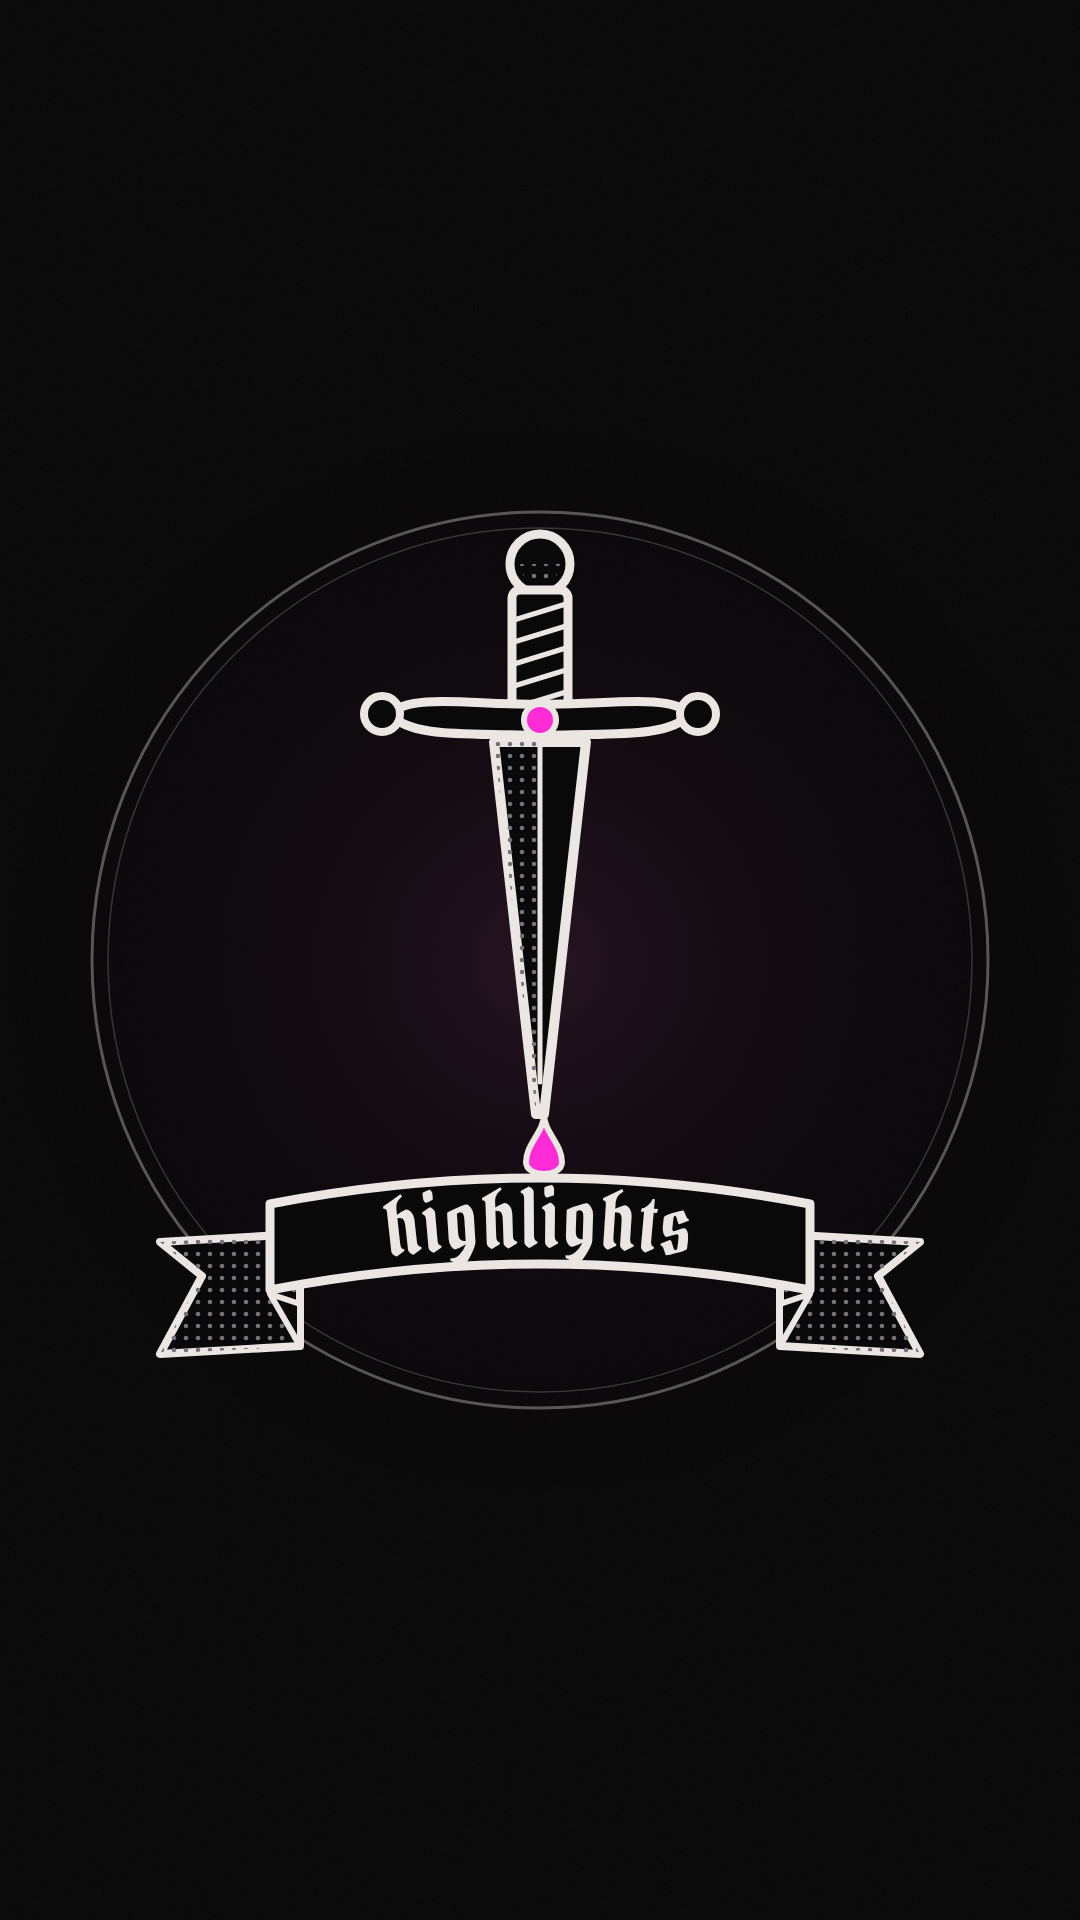
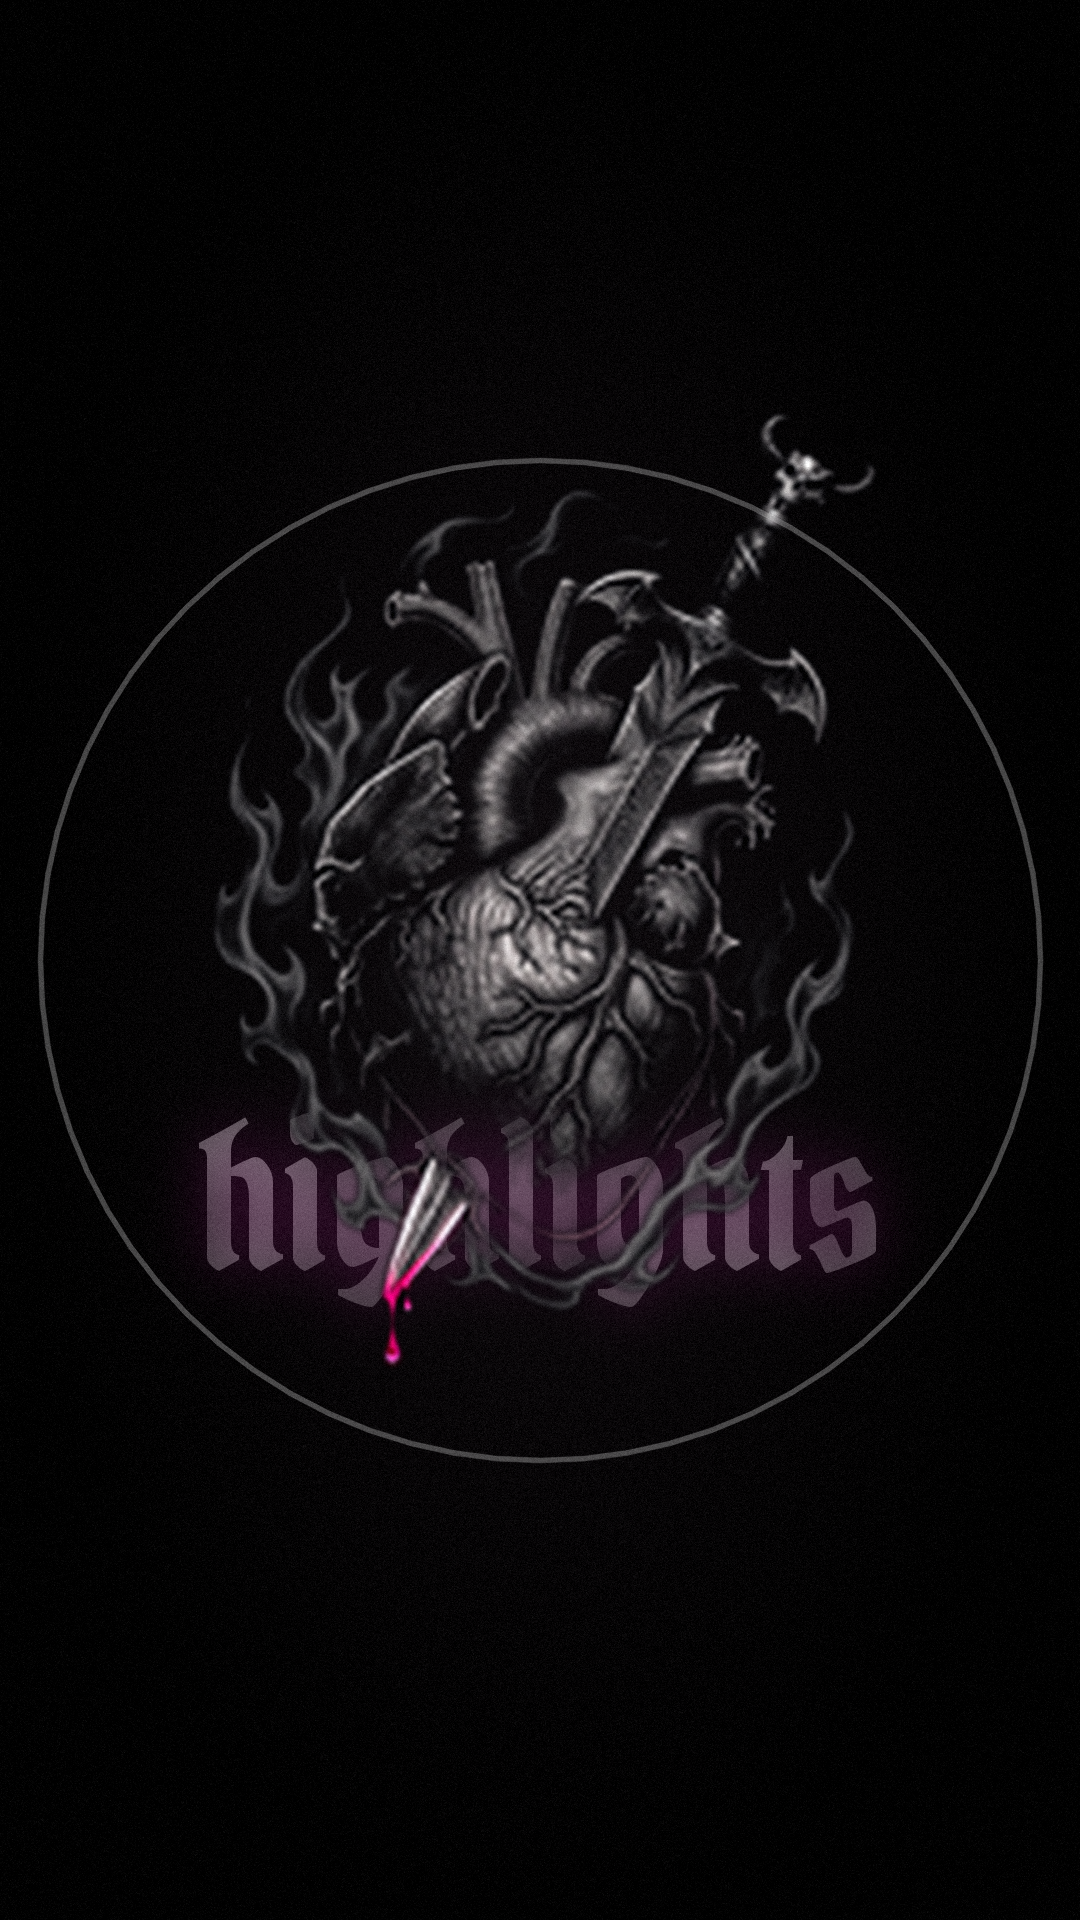
Highlight covers: realistic dark artwork with the name set behind the subject
Claude-Session: https://claude.ai/code/session_01UxfUGVuyJAH9CatYfRoXCg

diff --git a/brand/highlight-covers/compose.py b/brand/highlight-covers/compose.py
@@ -1,0 +1,122 @@
+#!/usr/bin/env python3
+"""
+Realistic highlight covers: AI artwork (black background) + the highlight's name in huge smoky
+blackletter BEHIND the subject, so the art overlaps the word.
+
+    reels/.venv/bin/python brand/highlight-covers/compose.py art/reviews.png reviews ...
+Each pair: <art image> <word>. Writes <n>-<word>.png (1080x1920) next to this file.
+"""
+
+import sys
+from pathlib import Path
+
+import cv2
+import numpy as np
+from PIL import Image, ImageDraw, ImageFilter, ImageFont
+
+HERE = Path(__file__).resolve().parent
+FONT = HERE.parents[1] / "reels" / "fonts" / "PirataOne-Regular.woff2"
+W, H = 1080, 1920
+PINK = (255, 43, 214)
+
+
+def font(size):
+    try:
+        return ImageFont.truetype(str(FONT), size)
+    except OSError:  # Pillow without woff2 support: convert once with fontTools
+        from fontTools.ttLib import TTFont
+        ttf = FONT.with_suffix(".ttf")
+        if not ttf.exists():
+            f = TTFont(str(FONT))
+            f.flavor = None
+            f.save(str(ttf))
+        return ImageFont.truetype(str(ttf), size)
+
+
+def grade(art):
+    """Slight alteration: deeper blacks, crisper mid-tones, cooler greys, pink kept."""
+    a = art.astype(np.float32) / 255
+    lum = a.mean(2, keepdims=True)
+    pinkish = np.clip((a[..., 0:1] - a[..., 1:2]) * 3, 0, 1)  # keep pink areas saturated
+    grey = lum + (a - lum) * (0.55 + 0.45 * pinkish)
+    grey = np.clip((grey - 0.04) / 0.94, 0, 1) ** 1.12  # crush blacks, gentle contrast
+    grey[..., 2:3] += 0.015 * (1 - pinkish)  # faint cool cast
+    return np.clip(grey * 255, 0, 255).astype(np.uint8)
+
+
+def subject_mask(art):
+    """Background is near-black: the subject is anything brighter, feathered."""
+    g = cv2.cvtColor(art, cv2.COLOR_RGB2GRAY).astype(np.float32)
+    m = np.clip((g - 14) / 40, 0, 1)
+    m = cv2.morphologyEx(m, cv2.MORPH_CLOSE, np.ones((9, 9), np.uint8))
+    return cv2.GaussianBlur(m, (0, 0), 3)
+
+
+def word_layer(word, cy):
+    """Huge blackletter word in smoky grey with a pink inner glow, as background texture."""
+    size = 300
+    f = font(size)
+    while f.getlength(word) > 700 and size > 120:  # stay inside the profile circle
+        size -= 10
+        f = font(size)
+    img = Image.new("L", (W, H), 0)
+    d = ImageDraw.Draw(img)
+    bx = d.textbbox((0, 0), word, font=f)
+    x = (W - (bx[2] - bx[0])) / 2 - bx[0]
+    y = cy - (bx[1] + bx[3]) / 2
+    d.text((x, y), word, font=f, fill=255)
+    m = np.asarray(img).astype(np.float32) / 255
+    # smoke texture inside the letters
+    rng = np.random.default_rng(len(word))
+    n = cv2.resize(rng.random((48, 27)).astype(np.float32), (W, H), interpolation=cv2.INTER_CUBIC)
+    n = cv2.GaussianBlur(n, (0, 0), 25)
+    n = (n - n.min()) / (n.max() - n.min() + 1e-9)
+    tone = 0.18 + 0.22 * n  # dim, uneven grey
+    rgb = np.dstack([tone * 235, tone * 228, tone * 232]) * m[..., None]
+    glow = cv2.GaussianBlur(m, (0, 0), 30)[..., None] * np.array(PINK, np.float32)[None, None] * 0.22
+    edge = cv2.GaussianBlur(m, (0, 0), 1.2)
+    return rgb + glow, m, edge
+
+
+def compose(art_path, word, out):
+    art = np.asarray(Image.open(art_path).convert("RGB")).copy()
+    # some previews come as a disc on white: black out anything bright touching the corners
+    h, w = art.shape[:2]
+    if art[:4, :4].mean() > 200 or art[-4:, -4:].mean() > 200:
+        yy, xx = np.mgrid[0:h, 0:w]
+        outside = np.hypot(xx - w / 2, yy - h / 2) > min(h, w) / 2 - 2
+        art[outside] = 0
+    art = grade(art)
+    side = 1000
+    art = cv2.resize(art, (side, side), interpolation=cv2.INTER_LANCZOS4 if art.shape[0] < side else cv2.INTER_AREA)
+    mask = subject_mask(art)
+
+    canvas = np.zeros((H, W, 3), np.float32)
+    # dark backdrop: soft vignette + faint grain
+    yy, xx = np.mgrid[0:H, 0:W]
+    r = np.hypot((xx - W / 2) / W, (yy - H / 2) / H)
+    canvas += (np.clip(0.5 - r, 0, 1) * 34)[..., None] * np.array([1.0, 0.75, 0.95])
+    word_rgb, wm, _ = word_layer(word, H / 2 + 250)
+    canvas = canvas * (1 - wm[..., None] * 0.9) + word_rgb
+
+    x0, y0 = (W - side) // 2, (H - side) // 2 - 60
+    reg = canvas[y0:y0 + side, x0:x0 + side]
+    m = mask[..., None]
+    canvas[y0:y0 + side, x0:x0 + side] = reg * (1 - m) + art.astype(np.float32) * m
+
+    # thin ring that frames the circle crop
+    ring = np.zeros((H, W), np.uint8)
+    cv2.circle(ring, (W // 2, H // 2), 500, 255, 3, cv2.LINE_AA)
+    canvas = canvas * (1 - ring[..., None] / 255 * 0.35) + ring[..., None] / 255 * 0.35 * 200
+    grain = np.random.default_rng(1).normal(0, 5, (H, W, 1))
+    out_img = np.clip(canvas + grain, 0, 255).astype(np.uint8)
+    Image.fromarray(out_img).save(out)
+
+
+if __name__ == "__main__":
+    args = sys.argv[1:]
+    for i in range(0, len(args), 2):
+        n = i // 2 + 1
+        out = HERE / f"{n}-{Path(args[i]).stem}.png"
+        compose(args[i], args[i + 1], out)
+        print("wrote", out)
